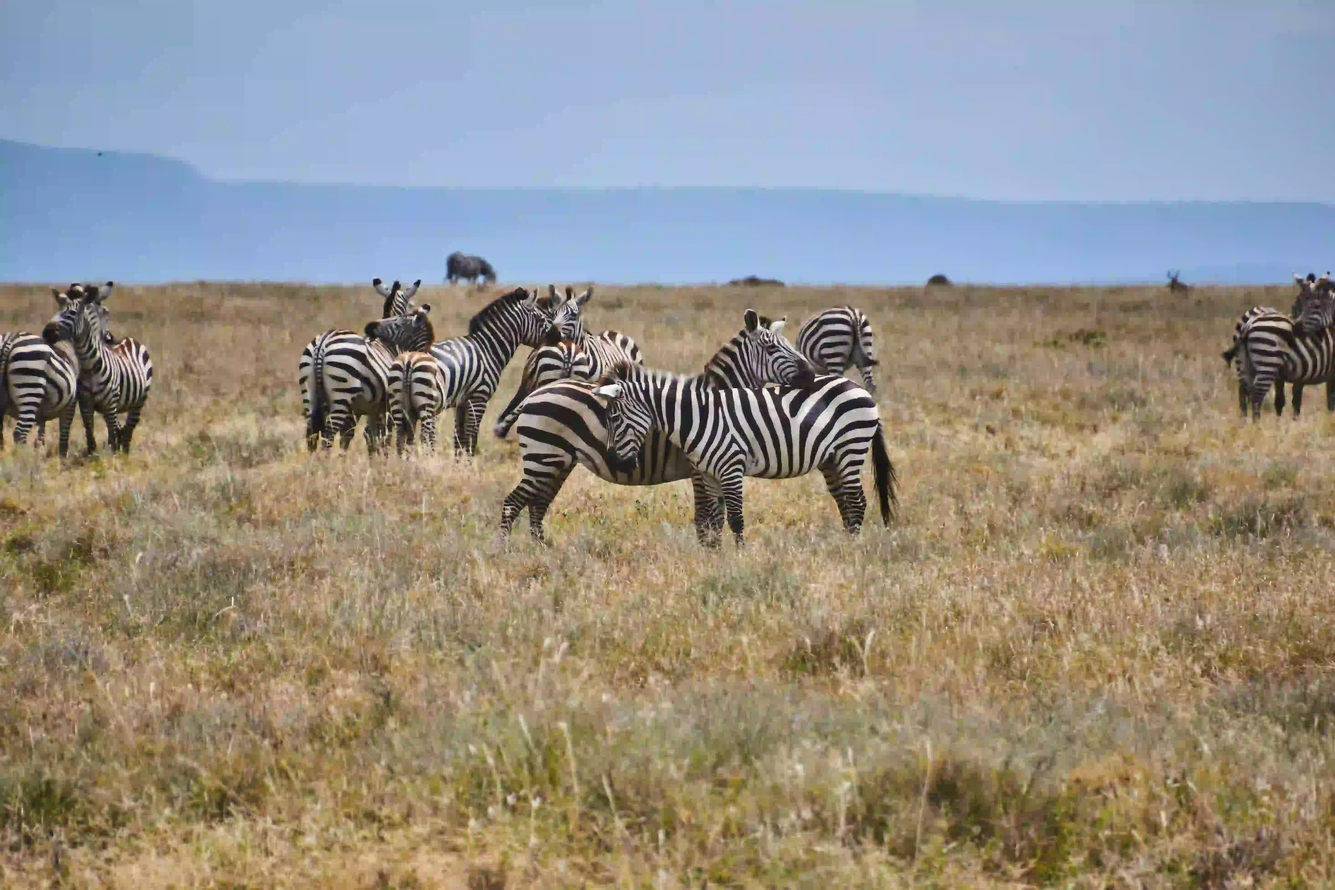
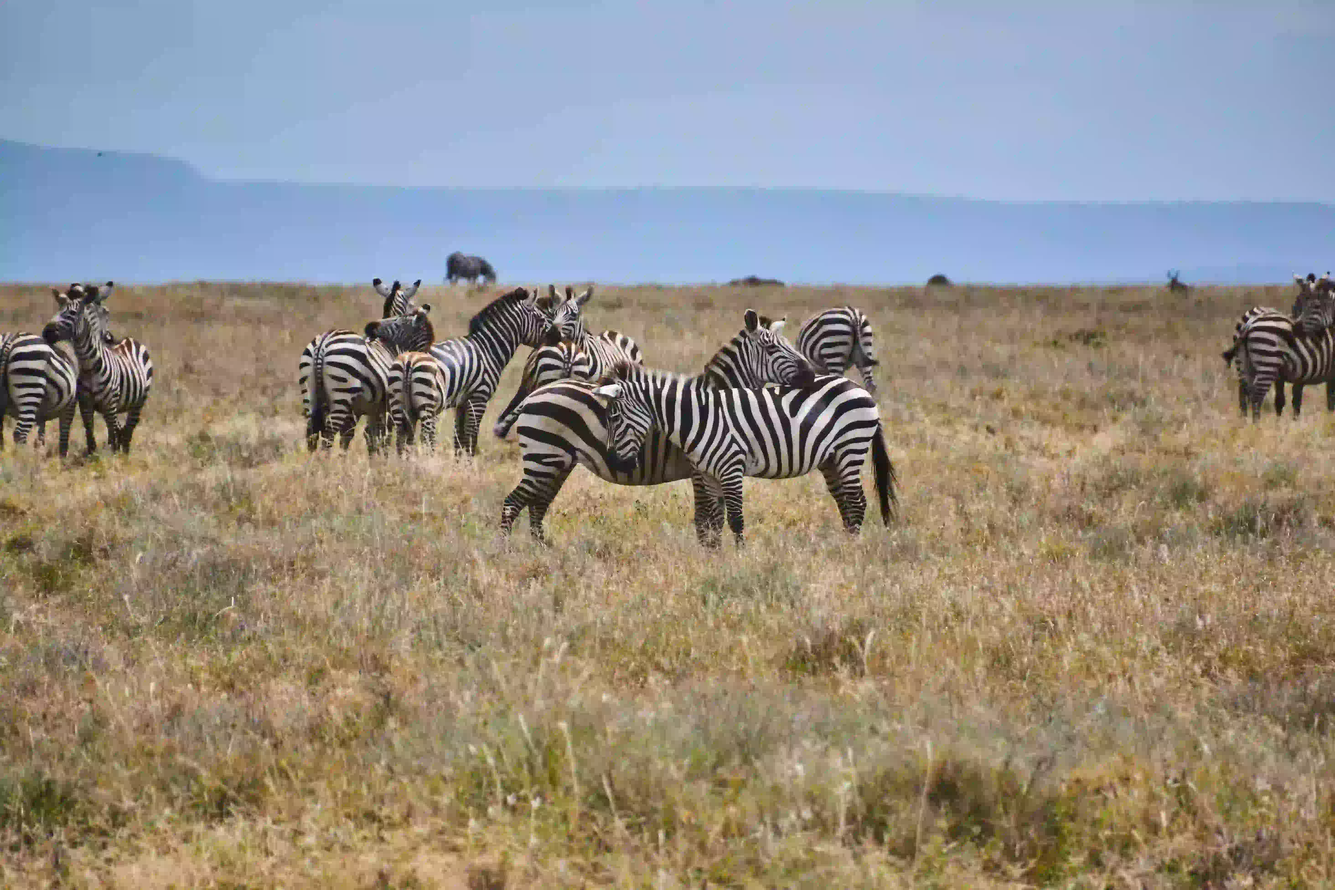
images

diff --git a/styles/place.css b/styles/place.css
@@ -108,7 +108,12 @@ footer {
         box-shadow: 0 4px 10px rgba(0,0,0,0.3);
     }
 
-    .weather h2::after {
-        content: "";
+    .weather h2 {
+        display: flex;
+        gap: 10px;
+    }
+
+    .weather h2 .icon {
+        width: 40px;
     }
 }
